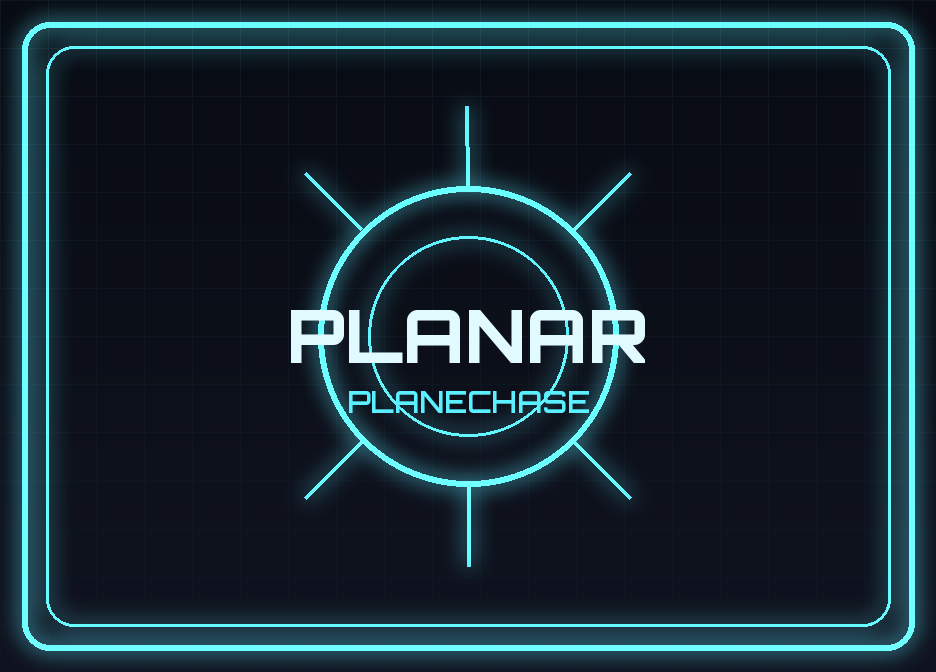
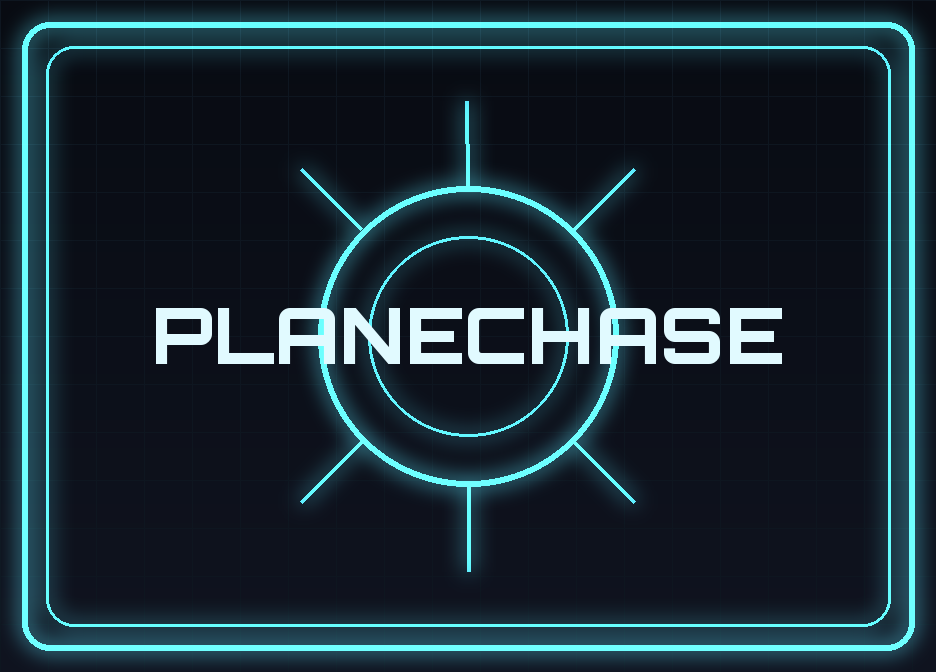
Planechase: relay images, card back text, upright picture tool

Changed region(s): [[0.1549, 0.4375, 0.8365, 0.625]]

diff --git a/tools/rotate_planes.html b/tools/rotate_planes.html
@@ -1,0 +1,91 @@
+<!doctype html>
+<html lang="en"><head><meta charset="utf-8"><title>Planechase picture maker</title>
+<meta name="viewport" content="width=device-width,initial-scale=1">
+<style>
+:root{--bg:#070a12;--panel:#0d1320;--line:#1f2c44;--cy:#5af0ff;--tx:#e6f1ff;--mut:#8aa0bd;--ok:#4dffa6;--bad:#ff6b6b}
+*{box-sizing:border-box}body{margin:0;background:var(--bg);color:var(--tx);font:15px/1.5 system-ui,Segoe UI,sans-serif;padding:28px 16px}
+main{max-width:760px;margin:auto}h1{font-size:22px;letter-spacing:.12em;text-transform:uppercase;color:var(--cy);margin:0 0 4px}
+p.sub{color:var(--mut);margin:0 0 22px}.card{background:var(--panel);border:1px solid var(--line);border-radius:14px;padding:18px;margin-bottom:16px}
+h2{font-size:14px;letter-spacing:.1em;text-transform:uppercase;margin:0 0 10px}button{background:#0a2430;color:var(--cy);border:1px solid var(--cy);border-radius:10px;padding:10px 18px;font-weight:700;letter-spacing:.06em;cursor:pointer}
+button:disabled{opacity:.35;cursor:default}button:hover:not(:disabled){background:#12394a}
+.pair{display:flex;gap:14px;flex-wrap:wrap}.pick{border:2px solid var(--line);border-radius:10px;padding:8px;cursor:pointer;background:#0a0f19}.pick.sel{border-color:var(--ok)}
+.pick canvas{display:block;max-width:300px;height:auto;border-radius:6px}.pick div{text-align:center;color:var(--mut);margin-top:6px;font-size:13px}
+#bar{height:10px;background:#0a0f19;border-radius:6px;overflow:hidden;border:1px solid var(--line)}#fill{height:100%;width:0;background:var(--cy);transition:width .2s}
+#log{max-height:200px;overflow:auto;font:12px/1.5 ui-monospace,Consolas,monospace;color:var(--mut);white-space:pre-wrap;margin-top:10px}.bad{color:var(--bad)}.ok{color:var(--ok)}
+</style></head><body><main>
+<h1>Planechase picture maker</h1>
+<p class="sub">Scryfall's plane pictures are turned sideways. This page makes upright copies for the table, straight into your repo folder.</p>
+<div class="card"><h2>1 &middot; Which one reads normally?</h2>
+<div class="pair"><div class="pick" id="pcw"><canvas id="cw"></canvas><div>A</div></div><div class="pick" id="pccw"><canvas id="ccw"></canvas><div>B</div></div></div>
+<p id="pstat" style="color:var(--mut)">Loading a sample card...</p></div>
+<div class="card"><h2>2 &middot; Make them</h2>
+<p style="margin-top:0;color:var(--mut)">Click, then choose the folder <b>TTS MTG / assets / planechase / cards</b> (make the <code>cards</code> folder first if it isn't there). Chrome or Edge only.</p>
+<button id="go" disabled>Choose folder and start</button>
+<div id="bar" style="margin-top:14px"><div id="fill"></div></div><div id="log"></div></div>
+</main>
+<script>
+const CARDS = [{"n": "Academy at Tolaria West", "s": "academy-at-tolaria-west", "p": "/large/front/e/d/ed4f4210-9871-4cec-9b46-100c80f93cd4.jpg"}, {"n": "Agyrem", "s": "agyrem", "p": "/large/front/6/c/6caf8b21-1807-442c-a461-c89c7591df70.jpg"}, {"n": "Akoum", "s": "akoum", "p": "/large/front/a/1/a1c7f2eb-0654-46f9-ae3d-11efcac837b8.jpg"}, {"n": "Aretopolis", "s": "aretopolis", "p": "/large/front/d/6/d6dc655e-d8ef-443a-bb3e-46c7ca1555ba.jpg"}, {"n": "Astral Arena", "s": "astral-arena", "p": "/large/front/5/6/56c735c0-9346-431b-869f-3accfa193016.jpg"}, {"n": "Bant", "s": "bant", "p": "/large/front/4/3/434a2d09-5776-4168-b863-f3b0a736d19b.jpg"}, {"n": "Bloodhill Bastion", "s": "bloodhill-bastion", "p": "/large/front/2/7/27efe0cb-e3b9-4058-8c3e-aad8e693f077.jpg"}, {"n": "Celestine Reef", "s": "celestine-reef", "p": "/large/front/0/c/0cf339cb-04c0-40e8-a64c-b80229a32cec.jpg"}, {"n": "Cliffside Market", "s": "cliffside-market", "p": "/large/front/f/f/ff65643b-e8bb-49d6-8887-13a146ee5174.jpg"}, {"n": "Edge of Malacol", "s": "edge-of-malacol", "p": "/large/front/c/a/ca4c429a-ca40-4656-aea5-86eb450e47b7.jpg"}, {"n": "Eloren Wilds", "s": "eloren-wilds", "p": "/large/front/b/e/bec61f7a-cf02-4150-aff9-9465fa14c779.jpg"}, {"n": "Feeding Grounds", "s": "feeding-grounds", "p": "/large/front/1/d/1dde33fa-f748-43c9-9ead-9461332e9e67.jpg"}, {"n": "Fields of Summer", "s": "fields-of-summer", "p": "/large/front/b/5/b52a233b-cc51-4f3e-94d0-a4b75ecb248e.jpg"}, {"n": "Furnace Layer", "s": "furnace-layer", "p": "/large/front/d/8/d89133d1-06e7-4b8f-8f42-e0551fd93a5b.jpg"}, {"n": "Gavony", "s": "gavony", "p": "/large/front/9/9/99ee3cd9-321e-4dfa-a144-65854d914d84.jpg"}, {"n": "Glen Elendra", "s": "glen-elendra", "p": "/large/front/f/d/fdaaef56-0c95-404a-8de5-e8f21e0282d3.jpg"}, {"n": "Glimmervoid Basin", "s": "glimmervoid-basin", "p": "/large/front/5/6/56a1afab-782c-4f31-96f5-17b676852fea.jpg"}, {"n": "Grixis", "s": "grixis", "p": "/large/front/e/c/ecbe3339-2cd1-45e2-bac1-8ea995238c30.jpg"}, {"n": "Grove of the Dreampods", "s": "grove-of-the-dreampods", "p": "/large/front/7/e/7e1e76f3-4a95-4bb1-bc21-22614b070711.jpg"}, {"n": "Horizon Boughs", "s": "horizon-boughs", "p": "/large/front/6/1/61471ab4-749a-40e4-b06b-153edec80daa.jpg"}, {"n": "Immersturm", "s": "immersturm", "p": "/large/front/d/4/d44a959c-7a04-4342-8827-882349f786fc.jpg"}, {"n": "Isle of Vesuva", "s": "isle-of-vesuva", "p": "/large/front/5/1/51bbbfd8-795f-4223-86f3-b3b3111d38c3.jpg"}, {"n": "Izzet Steam Maze", "s": "izzet-steam-maze", "p": "/large/front/d/0/d01d1b4f-5ac5-40b0-b4ad-34ac70aeb488.jpg"}, {"n": "Kessig", "s": "kessig", "p": "/large/front/5/2/5271d8fd-3657-45a3-8147-00cc1d19425f.jpg"}, {"n": "Kilnspire District", "s": "kilnspire-district", "p": "/large/front/9/3/93f386a5-08ce-4f76-944f-f38620a41027.jpg"}, {"n": "Krosa", "s": "krosa", "p": "/large/front/9/5/95d5c842-5768-49f8-8711-fdb7850b480d.jpg"}, {"n": "Goldmeadow", "s": "goldmeadow", "p": "/large/front/8/3/830c7c81-335e-4f0b-81b9-209732408093.jpg"}, {"n": "Grand Ossuary", "s": "grand-ossuary", "p": "/large/front/3/d/3dfccef2-4d55-423f-8375-4e349bbf615e.jpg"}, {"n": "Hedron Fields of Agadeem", "s": "hedron-fields-of-agadeem", "p": "/large/front/5/d/5d87893f-36e0-4621-a139-fedbc74ed4c5.jpg"}, {"n": "Jund", "s": "jund", "p": "/large/front/d/c/dc91f536-b3e5-48d2-a306-003e1bdfe8ba.jpg"}, {"n": "Lethe Lake", "s": "lethe-lake", "p": "/large/front/7/a/7a049235-2fda-48a7-b46e-d150a4893397.jpg"}, {"n": "Llanowar", "s": "llanowar", "p": "/large/front/0/0/00832a47-dec8-411e-9708-b3ebbd3a2dfc.jpg"}, {"n": "Minamo", "s": "minamo", "p": "/large/front/9/c/9c155a59-afee-4821-9715-10dafb9f9d9a.jpg"}, {"n": "Mirrored Depths", "s": "mirrored-depths", "p": "/large/front/d/7/d7a2b02e-3ff2-4c71-9022-b08472f53664.jpg"}, {"n": "Mount Keralia", "s": "mount-keralia", "p": "/large/front/a/4/a4d3edeb-4a78-4de3-a167-4565c494ba23.jpg"}, {"n": "Murasa", "s": "murasa", "p": "/large/front/4/6/46daa243-7c4e-4b0c-8ec2-e70cba8e72c3.jpg"}, {"n": "Naar Isle", "s": "naar-isle", "p": "/large/front/f/6/f63b82f9-ebc4-465c-b25e-5ee710525143.jpg"}, {"n": "Naya", "s": "naya", "p": "/large/front/1/5/15611e29-6f96-4c5c-a919-c8fe590581b0.jpg"}, {"n": "Nephalia", "s": "nephalia", "p": "/large/front/9/f/9f4b51ac-3e56-494f-aad7-ff5b0c3ed6ed.jpg"}, {"n": "Norn's Dominion", "s": "norn-s-dominion", "p": "/large/front/2/0/20d23638-74fb-481d-a3c4-d7f5fd666211.jpg"}, {"n": "Onakke Catacomb", "s": "onakke-catacomb", "p": "/large/front/2/e/2eef332f-d47f-4bc3-b39d-572dce4997b2.jpg"}, {"n": "Kharasha Foothills", "s": "kharasha-foothills", "p": "/large/front/0/f/0f05d1ae-d70b-474c-93fc-a5d2e3ac6b64.jpg"}, {"n": "Orochi Colony", "s": "orochi-colony", "p": "/large/front/f/9/f9fc5e0d-e605-468b-98da-34101087b8c4.jpg"}, {"n": "Orzhova", "s": "orzhova", "p": "/large/front/b/e/be92be0a-e10d-478b-bc09-9cd09bfb269e.jpg"}, {"n": "Otaria", "s": "otaria", "p": "/large/front/3/5/35add85f-a70a-497d-9a11-593325a1a4ef.jpg"}, {"n": "Panopticon", "s": "panopticon", "p": "/large/front/7/4/74242a9e-4add-4140-847e-a296e46e6f94.jpg"}, {"n": "Pools of Becoming", "s": "pools-of-becoming", "p": "/large/front/5/5/559007a6-c515-413a-8d3c-8ce1df0742ff.jpg"}, {"n": "Prahv", "s": "prahv", "p": "/large/front/8/6/86ff49dd-9845-459e-baaf-f65126ccb648.jpg"}, {"n": "Quicksilver Sea", "s": "quicksilver-sea", "p": "/large/front/0/7/072c1a59-dbdc-469c-9743-e083e52b0b6d.jpg"}, {"n": "Raven's Run", "s": "raven-s-run", "p": "/large/front/d/e/de770524-9afc-4971-842a-6ee0b81176fb.jpg"}, {"n": "Sanctum of Serra", "s": "sanctum-of-serra", "p": "/large/front/4/c/4c20e1cd-c541-4b44-8e20-adaa45a989a2.jpg"}, {"n": "Sea of Sand", "s": "sea-of-sand", "p": "/large/front/0/6/0693024b-7eed-4aa5-a890-66c947db6b73.jpg"}, {"n": "Skybreen", "s": "skybreen", "p": "/large/front/2/4/24ad1b98-17ef-4c58-a947-384ef39f1193.jpg"}, {"n": "Sokenzan", "s": "sokenzan", "p": "/large/front/f/d/fd5cb6c4-2ad7-47db-848b-8f6f157f3529.jpg"}, {"n": "Lair of the Ashen Idol", "s": "lair-of-the-ashen-idol", "p": "/large/front/b/6/b6078774-f681-46dd-a68e-1cefa8261d16.jpg"}, {"n": "Selesnya Loft Gardens", "s": "selesnya-loft-gardens", "p": "/large/front/9/4/94be33ca-0615-424a-9c4d-0fc91606af40.jpg"}, {"n": "Shiv", "s": "shiv", "p": "/large/front/8/c/8ce18193-76d6-4357-80e3-67ab453f47ac.jpg"}, {"n": "Stairs to Infinity", "s": "stairs-to-infinity", "p": "/large/front/e/c/eceba6df-8821-499b-b3c2-4d54c6eab257.jpg"}, {"n": "Stensia", "s": "stensia", "p": "/large/front/5/2/52906665-4acb-47d4-a443-b337503060d2.jpg"}, {"n": "Stronghold Furnace", "s": "stronghold-furnace", "p": "/large/front/d/5/d5b7baf7-3d9a-4acf-8985-126cbee14248.jpg"}, {"n": "Takenuma", "s": "takenuma", "p": "/large/front/0/d/0dadba2e-1d9a-4f04-b9d5-a3edff017662.jpg"}, {"n": "Talon Gates", "s": "talon-gates", "p": "/large/front/0/9/09feed09-96de-4208-b6b9-cac0ec150e70.jpg"}, {"n": "Tazeem", "s": "tazeem", "p": "/large/front/1/8/18c94ada-d864-4e94-9d95-e796ab0d0cff.jpg"}, {"n": "Tember City", "s": "tember-city", "p": "/large/front/e/c/ec65904f-c0dd-45ab-a85a-af4a6a631e11.jpg"}, {"n": "The Aether Flues", "s": "the-aether-flues", "p": "/large/front/3/d/3d8c9d69-be51-4ad4-9c2a-0ec1952e4f72.jpg"}, {"n": "The Dark Barony", "s": "the-dark-barony", "p": "/large/front/0/b/0b8a0cad-92df-45a1-a3cc-561be2f06778.jpg"}, {"n": "The Eon Fog", "s": "the-eon-fog", "p": "/large/front/5/0/501268b6-878b-4725-be1f-a64c90f79b87.jpg"}, {"n": "The Great Forest", "s": "the-great-forest", "p": "/large/front/8/c/8c08ca87-a485-4e4e-8f19-0da6a351142e.jpg"}, {"n": "The Hippodrome", "s": "the-hippodrome", "p": "/large/front/4/b/4ba7ce8f-e11d-4e06-8cb6-668de2a43a4e.jpg"}, {"n": "The Maelstrom", "s": "the-maelstrom", "p": "/large/front/6/2/6223caca-e993-4834-a673-3eee65b8afe1.jpg"}, {"n": "The Zephyr Maze", "s": "the-zephyr-maze", "p": "/large/front/4/c/4c9dc306-92e9-46e1-a67c-d4f2a65ce339.jpg"}, {"n": "Trail of the Mage-Rings", "s": "trail-of-the-mage-rings", "p": "/large/front/f/5/f5f307bf-80ac-46cb-9003-3e70a0703e71.jpg"}, {"n": "Truga Jungle", "s": "truga-jungle", "p": "/large/front/9/3/93f94fb5-abf6-46f8-860c-e93446b8236a.jpg"}, {"n": "Turri Island", "s": "turri-island", "p": "/large/front/d/2/d212c626-3557-465a-bc1f-65faf3811755.jpg"}, {"n": "Undercity Reaches", "s": "undercity-reaches", "p": "/large/front/6/a/6a1b27bc-bb7e-47e1-add5-a9d3e1bfda8b.jpg"}, {"n": "Velis Vel", "s": "velis-vel", "p": "/large/front/6/2/621a8224-7ea2-4ca4-be74-e460d05ad12b.jpg"}, {"n": "Windriddle Palaces", "s": "windriddle-palaces", "p": "/large/front/2/7/27f3c16a-34f9-497d-835c-5942e395ded8.jpg"}, {"n": "The Fourth Sphere", "s": "the-fourth-sphere", "p": "/large/front/d/e/decef464-d1d3-4459-a1c4-fbad684d5d02.jpg"}, {"n": "Enigma Ridges", "s": "enigma-ridges", "p": "/large/front/a/4/a4400c14-2aed-4018-a3fb-7de2b0456c07.jpg"}, {"n": "Esper", "s": "esper", "p": "/large/front/f/f/ffdf27d3-80b4-4aa1-b943-d247e502d32c.jpg"}, {"n": "Ghirapur", "s": "ghirapur", "p": "/large/front/0/c/0c8456bd-d290-43af-b2b9-06823bab65a2.jpg"}, {"n": "Inys Haen", "s": "inys-haen", "p": "/large/front/6/a/6a9b4ba6-12cb-488c-b9d5-245e094f72c3.jpg"}, {"n": "Ketria", "s": "ketria", "p": "/large/front/8/d/8d63dc8a-101c-4b12-bf56-06a8a3cea64e.jpg"}, {"n": "Naktamun", "s": "naktamun", "p": "/large/front/7/f/7ff092bb-e284-4397-a584-6a046145424b.jpg"}, {"n": "New Argive", "s": "new-argive", "p": "/large/front/e/2/e22ac94f-03a7-49ee-a059-fc123708962e.jpg"}, {"n": "Norn's Seedcore", "s": "norn-s-seedcore", "p": "/large/front/1/a/1a4238ce-2a8f-404f-a893-9bb8b3f26835.jpg"}, {"n": "Nyx", "s": "nyx", "p": "/large/front/d/8/d8da872d-55e0-4596-ba8e-f9ff7b2c0a86.jpg"}, {"n": "Strixhaven", "s": "strixhaven", "p": "/large/front/6/a/6a8a8752-6849-4abc-9acb-bafffe685e94.jpg"}, {"n": "Ten Wizards Mountain", "s": "ten-wizards-mountain", "p": "/large/front/d/2/d2603e7a-1b1b-4f71-81d9-7e84c766312d.jpg"}, {"n": "The Caldaia", "s": "the-caldaia", "p": "/large/front/d/e/de4c566d-85ef-49af-a5cb-bcfa4aaba245.jpg"}, {"n": "The Fertile Lands of Saulvinia", "s": "the-fertile-lands-of-saulvinia", "p": "/large/front/f/e/fe2e52fb-4633-46c1-a48a-cde89d709e07.jpg"}, {"n": "The Great Aerie", "s": "the-great-aerie", "p": "/large/front/4/a/4afe8c95-efeb-4f7d-834d-fa5b095c9a06.jpg"}, {"n": "Littjara", "s": "littjara", "p": "/large/front/2/a/2a098e3b-00e7-48d5-bc0d-f153e7cc5dfd.jpg"}, {"n": "Megaflora Jungle", "s": "megaflora-jungle", "p": "/large/front/5/3/53f91325-e95a-4b68-9491-4249c2e940b4.jpg"}, {"n": "Paliano", "s": "paliano", "p": "/large/front/f/e/fe509cef-83e5-48d9-a9ec-e187ab65b5e0.jpg"}, {"n": "Riptide Island", "s": "riptide-island", "p": "/large/front/6/1/618dbae8-7e3f-47ba-8f02-292047e86a05.jpg"}, {"n": "Towashi", "s": "towashi", "p": "/large/front/6/d/6d37cf73-e128-4367-b030-313d987fda7a.jpg"}, {"n": "Valor's Reach", "s": "valor-s-reach", "p": "/large/front/4/5/450ed99e-7fb6-45d3-b043-27ff58fe8dbb.jpg"}, {"n": "The Pit", "s": "the-pit", "p": "/large/front/f/d/fd571dc7-b0b0-49a2-938a-d4336efe5e76.jpg"}, {"n": "The Western Cloud", "s": "the-western-cloud", "p": "/large/front/4/a/4a0e558d-cfd7-4ecf-b951-50016e8cc569.jpg"}, {"n": "The Wilds", "s": "the-wilds", "p": "/large/front/1/f/1fccd76c-cce9-4ae3-84c1-000e54ca4734.jpg"}, {"n": "Unyaro", "s": "unyaro", "p": "/large/front/6/e/6ef8454d-1aac-4907-91cf-535ea679042c.jpg"}, {"n": "The Golden City of Orazca", "s": "the-golden-city-of-orazca", "p": "/large/front/0/3/03a2c40d-6adb-4ad7-ba8e-3954d33f0e09.jpg"}, {"n": "Chaotic Aether", "s": "chaotic-aether", "p": "/large/front/4/2/42ecb371-53aa-4368-8ddd-88ae8e90ae0c.jpg"}, {"n": "Interplanar Tunnel", "s": "interplanar-tunnel", "p": "/large/front/5/6/56e4874c-9d3d-4a1c-a027-186a33ce0da7.jpg"}, {"n": "Morphic Tide", "s": "morphic-tide", "p": "/large/front/5/4/54327aa2-319d-4430-a266-03cadeed6146.jpg"}, {"n": "Mutual Epiphany", "s": "mutual-epiphany", "p": "/large/front/3/2/3205818c-c7a9-4b70-a403-854c2ad9456d.jpg"}, {"n": "Planewide Disaster", "s": "planewide-disaster", "p": "/large/front/1/0/10fc16b9-3913-400f-bd27-02fcd5c28147.jpg"}, {"n": "Reality Shaping", "s": "reality-shaping", "p": "/large/front/2/1/211014b3-ad13-41b3-bfb6-b907108769fd.jpg"}, {"n": "Spatial Merging", "s": "spatial-merging", "p": "/large/front/d/e/de44957b-3dcb-45db-a6a7-b5c6e64b582a.jpg"}, {"n": "Time Distortion", "s": "time-distortion", "p": "/large/front/b/a/ba38fb01-ea16-4a2d-964a-41f7b4d74024.jpg"}, {"n": "Amy's Home", "s": "amy-s-home", "p": "/large/front/a/c/ac0615cc-860a-4fed-9e9c-4377ba8ed22a.jpg"}, {"n": "Bad Wolf Bay", "s": "bad-wolf-bay", "p": "/large/front/a/0/a068875e-9294-403d-a6db-15092b6c42d3.jpg"}, {"n": "Besieged Viking Village", "s": "besieged-viking-village", "p": "/large/front/8/b/8bb62bd5-79e5-4af0-aafd-c1bd53765c67.jpg"}, {"n": "Bowie Base One", "s": "bowie-base-one", "p": "/large/front/2/2/22e3ec5a-4bd5-452f-873a-3801253754dd.jpg"}, {"n": "Coal Hill School", "s": "coal-hill-school", "p": "/large/front/8/2/82e09673-c7f0-4377-abbd-b1ea4922d4b3.jpg"}, {"n": "Hotel of Fears", "s": "hotel-of-fears", "p": "/large/front/8/b/8b164271-6438-4135-b7a9-8573c3921052.jpg"}, {"n": "Lake Silencio", "s": "lake-silencio", "p": "/large/front/4/5/45091d2b-d872-4beb-af87-7675aaf0c2c8.jpg"}, {"n": "Mondassian Colony Ship", "s": "mondassian-colony-ship", "p": "/large/front/b/a/ba6728e1-12f0-40a7-90f9-520f3572b190.jpg"}, {"n": "Antarctic Research Base", "s": "antarctic-research-base", "p": "/large/front/3/c/3cc61f60-2f9d-4f67-8390-62873b4b8ddb.jpg"}, {"n": "Aplan Mortarium", "s": "aplan-mortarium", "p": "/large/front/8/5/855978a6-c81c-4e5e-a34f-41a54fef0c10.jpg"}, {"n": "City of the Daleks", "s": "city-of-the-daleks", "p": "/large/front/4/f/4f82f5b7-b4b9-489a-bbd7-98faaa566515.jpg"}, {"n": "Dalek Intensive Care", "s": "dalek-intensive-care", "p": "/large/front/1/3/13dd9d2c-f1d3-4dbf-8101-e4fab9f42e40.jpg"}, {"n": "Gardens of Tranquil Repose", "s": "gardens-of-tranquil-repose", "p": "/large/front/e/b/eb753c00-303d-49f3-ad98-b7772cc4a274.jpg"}, {"n": "Kerblam! Warehouse", "s": "kerblam-warehouse", "p": "/large/front/4/c/4c46b6c1-0c84-4bd3-b317-9b8191ad937e.jpg"}, {"n": "New New York", "s": "new-new-york", "p": "/large/front/5/1/5185dfce-d3ad-4509-b356-f6750d7c6a09.jpg"}, {"n": "Ood Sphere", "s": "ood-sphere", "p": "/large/front/6/4/642c9e68-4d5f-4e7f-894b-56dec4081fc7.jpg"}, {"n": "Pompeii", "s": "pompeii", "p": "/large/front/a/5/a549ee7a-276b-45eb-a2c7-f74c85dc6a0d.jpg"}, {"n": "Prime Minister's Cabinet Room", "s": "prime-minister-s-cabinet-room", "p": "/large/front/2/9/291478b8-a8f6-4449-8cd8-9d70484d3398.jpg"}, {"n": "Singing Towers of Darillium", "s": "singing-towers-of-darillium", "p": "/large/front/b/3/b30f88bd-426a-48fb-a921-c7c5831120bd.jpg"}, {"n": "Stormcage Containment Facility", "s": "stormcage-containment-facility", "p": "/large/front/5/6/5665c85f-f564-47fe-a123-4e5a70e179d9.jpg"}, {"n": "TARDIS Bay", "s": "tardis-bay", "p": "/large/front/0/e/0e2d8456-6e3c-42ee-8bd4-215db5fbda98.jpg"}, {"n": "Temple of Atropos", "s": "temple-of-atropos", "p": "/large/front/7/5/75481e04-ab27-4fdd-b789-4a53ffc92430.jpg"}, {"n": "The Cheetah Planet", "s": "the-cheetah-planet", "p": "/large/front/4/b/4b6bd680-18c6-46d9-b747-825fb0fee6dd.jpg"}, {"n": "The Doctor's Childhood Barn", "s": "the-doctor-s-childhood-barn", "p": "/large/front/f/4/f4c583ab-ad15-436b-9151-8b4d212cbeda.jpg"}, {"n": "The Doctor's Tomb", "s": "the-doctor-s-tomb", "p": "/large/front/2/4/2456bb33-6380-4b4d-bf23-7b071fc22be2.jpg"}, {"n": "The Drum, Mining Facility", "s": "the-drum-mining-facility", "p": "/large/front/9/f/9fdb7dca-017a-49a7-b8de-4a8ccf7ac679.jpg"}, {"n": "North Pole Research Base", "s": "north-pole-research-base", "p": "/large/front/6/4/6489955c-1571-41dd-9419-5c071a8b3e30.jpg"}, {"n": "Spectrox Mines", "s": "spectrox-mines", "p": "/large/front/8/4/84933e48-8b10-4ccf-a7e8-140fbb9c0c9b.jpg"}, {"n": "The Cave of Skulls", "s": "the-cave-of-skulls", "p": "/large/front/7/4/74560139-0870-4184-887b-72d67c57b6ed.jpg"}, {"n": "The Dining Car", "s": "the-dining-car", "p": "/large/front/b/f/bf6193ea-4906-4097-8e30-431220f9e35c.jpg"}, {"n": "The Lux Foundation Library", "s": "the-lux-foundation-library", "p": "/large/front/c/3/c3cd9db0-b417-42e8-b3be-00fdc9330014.jpg"}, {"n": "The Moonbase", "s": "the-moonbase", "p": "/large/front/b/7/b715df92-e504-4844-9d74-6f4965fd32ee.jpg"}, {"n": "The Pyramid of Mars", "s": "the-pyramid-of-mars", "p": "/large/front/8/a/8aec22c6-4986-45aa-9b6b-8517bbbaed4e.jpg"}, {"n": "Two Streams Facility", "s": "two-streams-facility", "p": "/large/front/4/0/40732207-291c-4cea-be87-dd4dbb8b6259.jpg"}, {"n": "The Matrix of Time", "s": "the-matrix-of-time", "p": "/large/front/c/3/c343b9dd-edce-46ee-bdd6-f240cf061d59.jpg"}, {"n": "UNIT Headquarters", "s": "unit-headquarters", "p": "/large/front/9/f/9f7ec46f-1499-4c75-8568-d9266a3d1e69.jpg"}, {"n": "Fixed Point in Time", "s": "fixed-point-in-time", "p": "/large/front/a/0/a05478f9-3a9a-4887-a8e7-63550eaa6030.jpg"}, {"n": "Unleash the Flux", "s": "unleash-the-flux", "p": "/large/front/8/e/8e3c04ad-a8b5-453a-aff4-dce743b1c693.jpg"}, {"n": "Caught in a Parallel Universe", "s": "caught-in-a-parallel-universe", "p": "/large/front/d/8/d8ddc6d0-50cc-4914-a6f2-00fb93d4402a.jpg"}, {"n": "Human-Time Lord Meta-Crisis", "s": "human-time-lord-meta-crisis", "p": "/large/front/f/5/f5def75a-f511-42e8-a652-7de4abfbd968.jpg"}];
+const HOSTS = ["https://cards.scryfall.io", "https://mtg-relay.nutritiousdeath.workers.dev", "https://img.klrmngr.com"];
+let dir = 1;   // 1 = turn clockwise, -1 = counter-clockwise
+const log = (t, c) => { const l = document.getElementById("log"); const s = document.createElement("div"); if (c) s.className = c; s.textContent = t; l.appendChild(s); l.scrollTop = l.scrollHeight; };
+
+async function getBitmap(card) {
+  let last;
+  for (const h of HOSTS) {
+    try {
+      const r = await fetch(h + card.p, { mode: "cors" });
+      if (!r.ok) throw new Error(h + " " + r.status);
+      return await createImageBitmap(await r.blob());
+    } catch (e) { last = e; }
+  }
+  throw last;
+}
+function turned(bmp, d) {
+  const c = document.createElement("canvas"); c.width = bmp.height; c.height = bmp.width;
+  const x = c.getContext("2d");
+  if (d > 0) { x.translate(c.width, 0); x.rotate(Math.PI / 2); } else { x.translate(0, c.height); x.rotate(-Math.PI / 2); }
+  x.drawImage(bmp, 0, 0); return c;
+}
+function show(canvas, id) { const t = document.getElementById(id); t.width = canvas.width; t.height = canvas.height; t.getContext("2d").drawImage(canvas, 0, 0); }
+function choose(d) { dir = d; document.getElementById("pcw").classList.toggle("sel", d > 0); document.getElementById("pccw").classList.toggle("sel", d < 0); }
+document.getElementById("pcw").onclick = () => choose(1);
+document.getElementById("pccw").onclick = () => choose(-1);
+
+(async () => {
+  try {
+    const sample = CARDS.find(c => c.s === "akoum") || CARDS[0];
+    const bmp = await getBitmap(sample);
+    show(turned(bmp, 1), "cw"); show(turned(bmp, -1), "ccw");
+    document.getElementById("pstat").textContent = "Click the picture where the words read normally (" + sample.n + ").";
+    document.getElementById("go").disabled = false;
+  } catch (e) {
+    document.getElementById("pstat").innerHTML = '<span class="bad">Could not download a sample picture (' + e + '). Check your internet connection and reload.</span>';
+  }
+})();
+
+document.getElementById("go").onclick = async () => {
+  if (!window.showDirectoryPicker) { log("This browser can't pick a folder: use Chrome or Edge.", "bad"); return; }
+  let folder;
+  try { folder = await window.showDirectoryPicker({ mode: "readwrite" }); } catch (e) { return; }
+  document.getElementById("go").disabled = true;
+  let done = 0, failed = 0, next = 0;
+  const total = CARDS.length;
+  async function worker() {
+    while (next < total) {
+      const card = CARDS[next++];
+      try {
+        const bmp = await getBitmap(card);
+        const blob = await new Promise(r => turned(bmp, dir).toBlob(r, "image/jpeg", 0.92));
+        const fh = await folder.getFileHandle(card.s + ".jpg", { create: true });
+        const w = await fh.createWritable(); await w.write(blob); await w.close();
+        done++;
+      } catch (e) { failed++; log("FAILED " + card.n + ": " + e, "bad"); }
+      document.getElementById("fill").style.width = ((done + failed) / total * 100) + "%";
+    }
+  }
+  await Promise.all([worker(), worker(), worker()]);
+  log("Done: " + done + " saved, " + failed + " failed.", failed ? "bad" : "ok");
+  if (!failed) log("Now push the folder with git (add / commit / push), then UNPACK again in TTS.", "ok");
+  document.getElementById("go").disabled = false;
+};
+</script></body></html>

diff --git a/tools/make_planechase_back.py b/tools/make_planechase_back.py
@@ -38,7 +38,7 @@ g.ellipse([W / 2 - 150, H / 2 - 150, W / 2 + 150, H / 2 + 150], outline=CYAN, wi
 g.ellipse([W / 2 - 100, H / 2 - 100, W / 2 + 100, H / 2 + 100], outline=CYAN, width=3)
 import math
 for a in (45, 135, 225, 315, 90, 270):
-    r0, r1 = 150, 230
+    r0, r1 = 150, 235
     g.line([(W / 2 + r0 * math.cos(math.radians(a)), H / 2 + r0 * math.sin(math.radians(a))),
             (W / 2 + r1 * math.cos(math.radians(a)), H / 2 + r1 * math.sin(math.radians(a)))], fill=CYAN, width=4)
 blur = glow.filter(ImageFilter.GaussianBlur(10))
@@ -47,14 +47,10 @@ from PIL import ImageChops
 img = ImageChops.add(img, blur)
 img = ImageChops.add(img, glow.point(lambda v: int(v * 0.85)))
 d = ImageDraw.Draw(img)
-text = "PLANAR"
-f = font(74)
+text = "PLANECHASE"
+f = font(78)
 bb = d.textbbox((0, 0), text, font=f)
-d.text(((W - (bb[2] - bb[0])) / 2, H / 2 - 48), text, font=f, fill=(225, 250, 255))
-f2 = font(30, 600)
-t2 = "PLANECHASE"
-bb = d.textbbox((0, 0), t2, font=f2)
-d.text(((W - (bb[2] - bb[0])) / 2, H / 2 + 46), t2, font=f2, fill=CYAN)
+d.text(((W - (bb[2] - bb[0])) / 2, H / 2 - (bb[3] - bb[1]) / 2 - bb[1]), text, font=f, fill=(225, 250, 255))
 os.makedirs(OUT, exist_ok=True)
 img.save(os.path.join(OUT, "back.png"))
 print("back.png written")

diff --git a/tools/make_planechase_data.py b/tools/make_planechase_data.py
@@ -54,7 +54,7 @@ def lua(s):
 
 
 out = ["-- Generated by tools/make_planechase_data.py: the planes and phenomena for planechase.lua.\n",
-       "PLANECHASE_BACK = %s\n" % lua("https://raw.githubusercontent.com/NutritiousDeath/mtg-tts-table/main/assets/planechase/back.png?v=1"), "PLANECHASE_CARDS = {\n"]
+       "PLANECHASE_BACK = %s\n" % lua(back), "PLANECHASE_CARDS = {\n"]
 for c in cards:
     out.append("  { n = %s, t = %s, g = %s,\n    u = %s,\n    o = %s },\n" % (lua(c["n"]), lua(c["t"]), lua(c["g"]), lua(c["u"]), lua(c["o"])))
 out.append("}\n")
